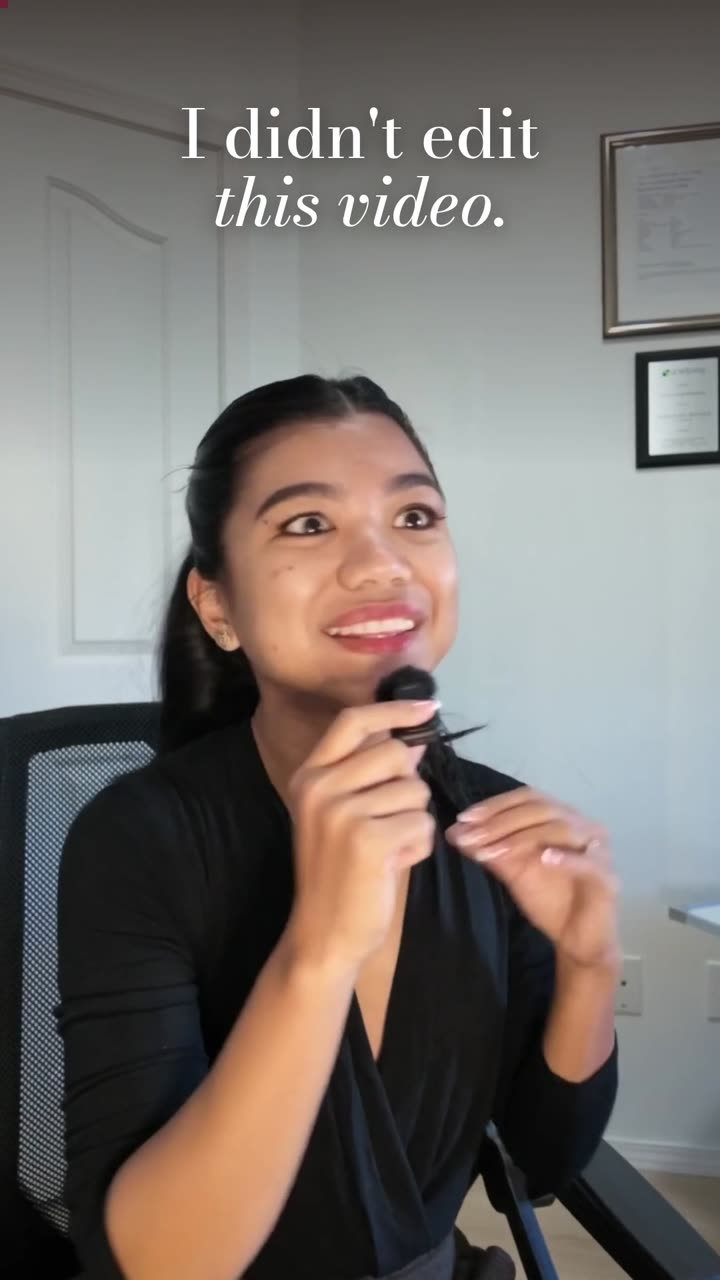
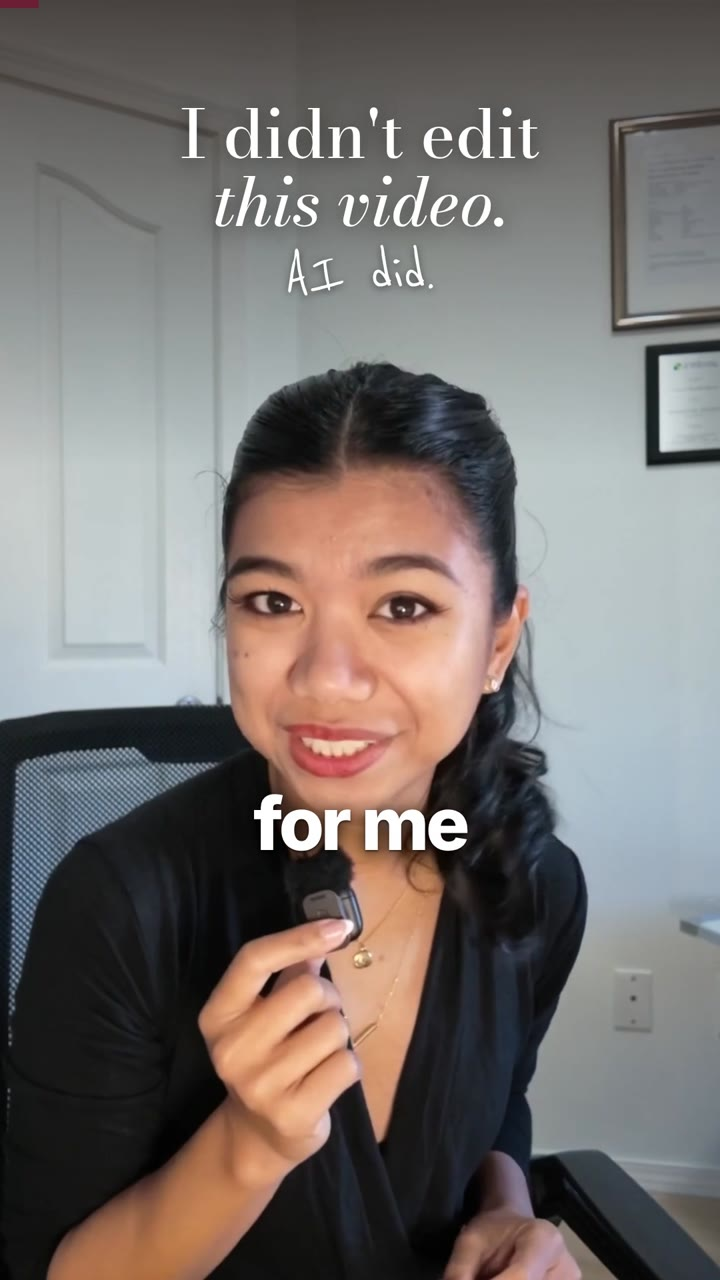
Use the "AI did. / for me" frame as the sample video's cover
Claude-Session: https://claude.ai/code/session_01Jt8oKoMJgxBwMFvgDhjZzz

diff --git a/content/playbook.html b/content/playbook.html
@@ -388,7 +388,7 @@ footer .in{max-width:1180px;margin:0 auto;padding-block:28px;display:flex;flex-w
         <p>Captions, text effects, cuts and pacing, done with the AI workflow you'll build in this playbook. Press play and watch what's possible.</p>
       </div>
       <figure class="player vertical">
-        <video controls playsinline preload="metadata" poster="/media/sample-poster.jpg" aria-label="Sample video edited with AI">
+        <video controls playsinline preload="metadata" poster="/media/sample-poster.jpg?v=2" aria-label="Sample video edited with AI">
           <source src="/media/sample.mp4" type="video/mp4">
           Your browser can't play this video.
         </video>

diff --git a/scripts/build-content.py b/scripts/build-content.py
@@ -24,6 +24,9 @@ page = page.replace('<meta name="claude:viewport-fit-sides" content="cover">\n',
 for name in ("welcome.mp4", "ending.mp4", "welcome-poster.jpg", "ending-poster.jpg", "sample.mp4", "sample-poster.jpg"):
     page = swap(page, f'"videos/{name}"', f'"/media/{name}"')
 
+# bump when a cover image is replaced, so browsers don't keep showing the old one
+page = swap(page, '"/media/sample-poster.jpg"', '"/media/sample-poster.jpg?v=2"')
+
 page = swap(page, "footer{border-top:1px solid var(--line)}",
             ".signout{display:inline-block;margin-top:12px;font:700 12px/1 var(--body);letter-spacing:.12em;"
             "text-transform:uppercase;color:var(--muted);text-decoration:none}"
